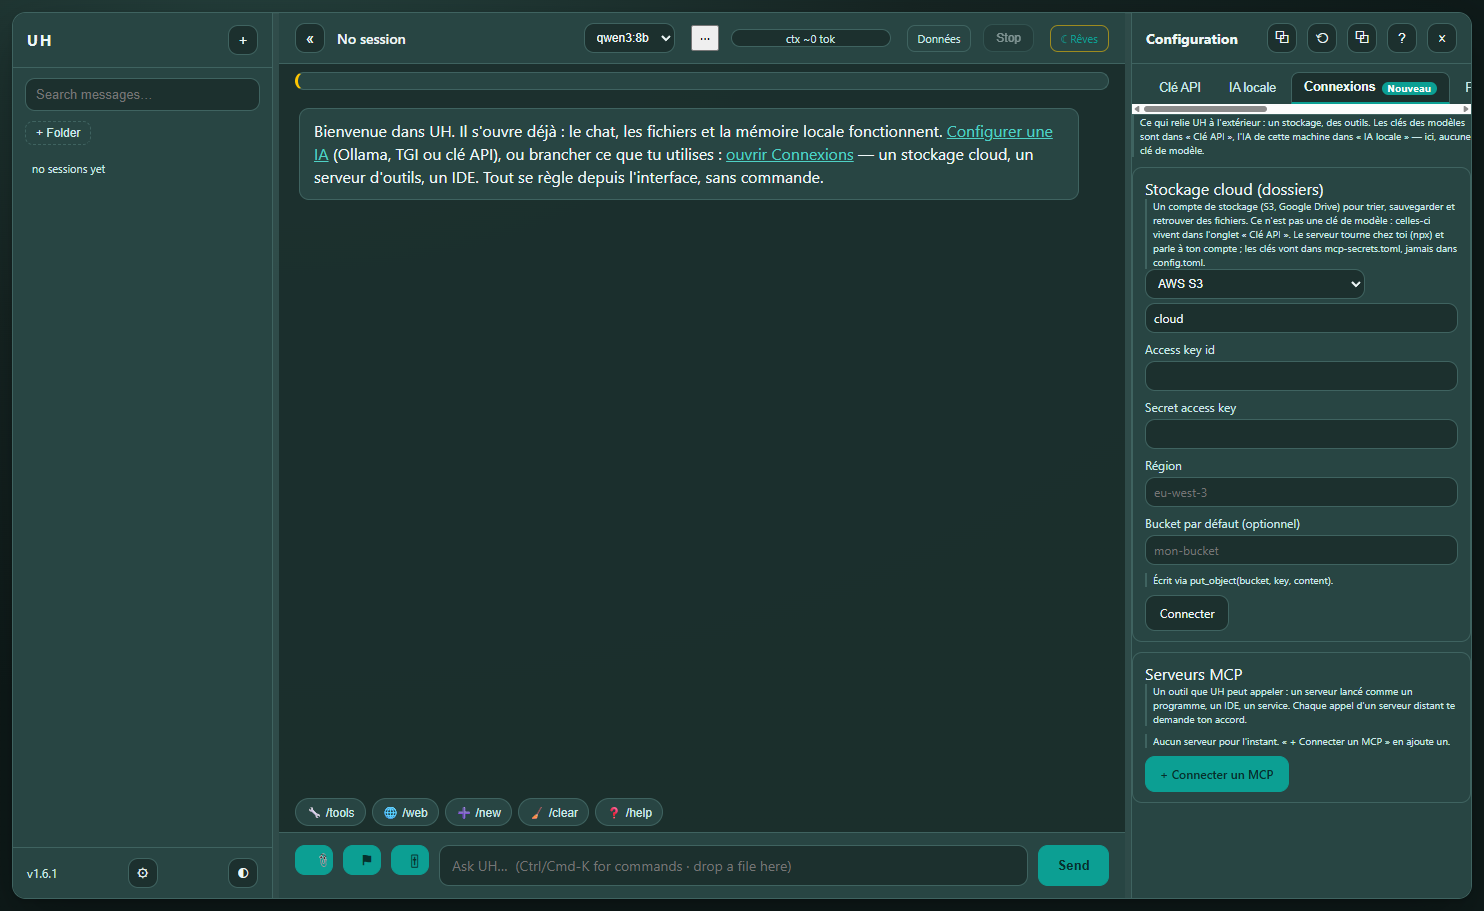
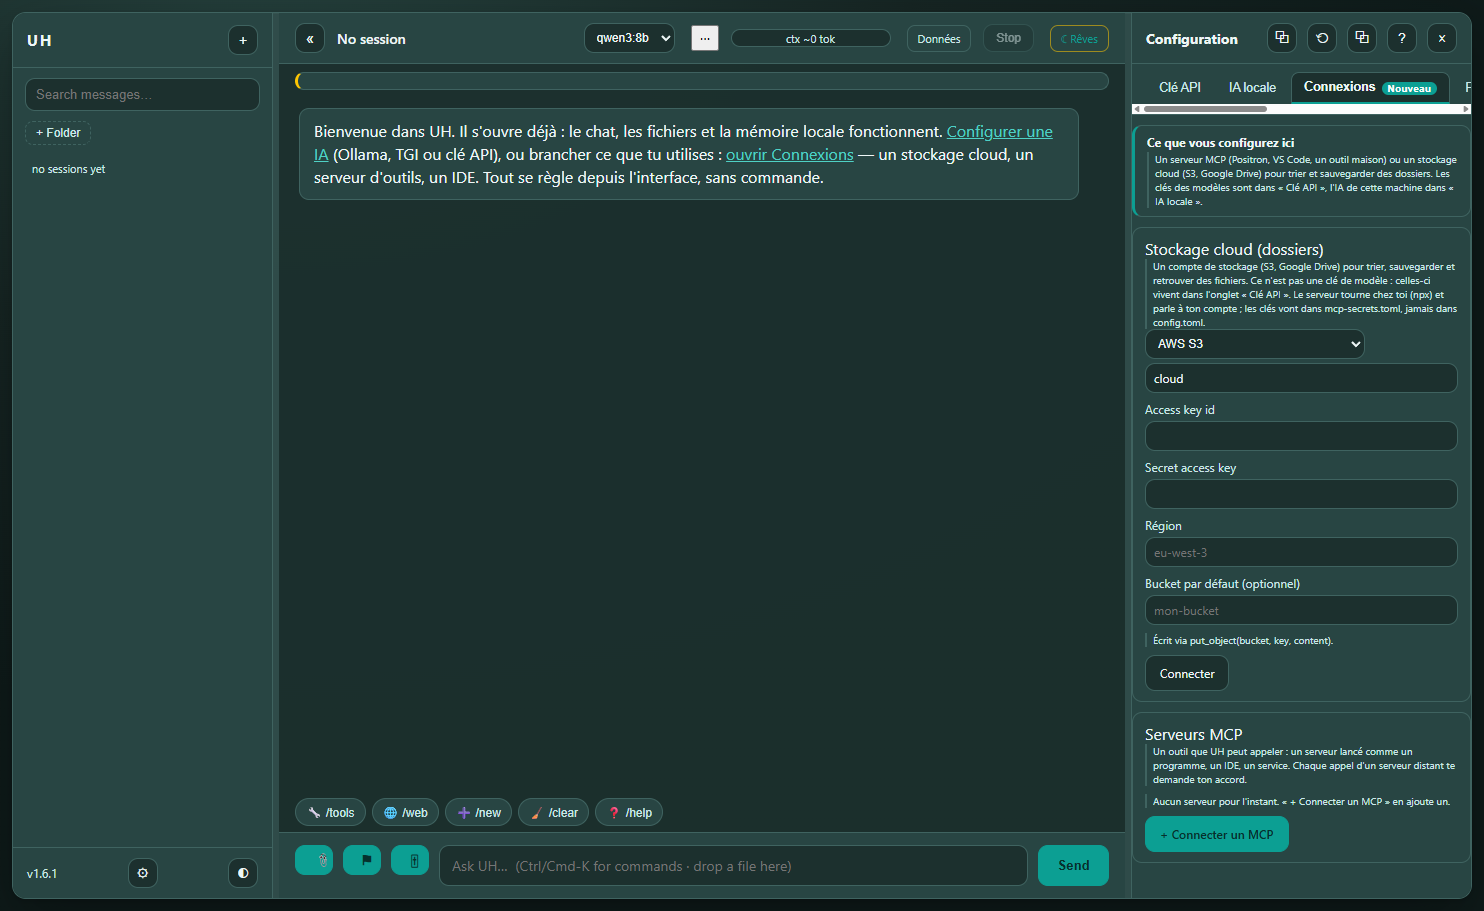
fix(prompt): guide users to UI for MCP connection, handle Positron session errors
- the prompt now forbids answering a UI question with a file edit: config.toml and
  keys.toml are for advanced users, the answer is the tab + a deep link
- and it tells the model what to do when a tool says no session is running: open a
  console in the IDE, run a cell, ask again - never invent a workaround
- a tab named in an answer becomes a link (Connexions, Clé API, IA locale, ...), and
  a same-origin deep link /?panel=conn renders as a link instead of literal markdown
- a Positron-style 'No session running' tool error is turned into that sentence in
  both clients, with the server's own words kept after it
- Connexions opens on a contextual card: MCP server or cloud storage, here; model
  keys in Clé API, the local model in IA locale

Tests: test_web_markdown_links.py (rendered HTML via node, skipped without it),
test_mcp_session_hint.py, test_system_prompt.py, test_web_ux.py.

Changed region(s): [[0.7439, 0.1229, 0.9919, 0.461], [0.7439, 0.4918, 0.9919, 0.9528]]

diff --git a/uh/web/static/markdown.js b/uh/web/static/markdown.js
@@ -12,6 +12,42 @@ function escapeHtml(text) {
   return text.replace(/[&<>"']/g, (ch) => ESCAPE[ch]);
 }
 
+// A tab named in a model answer becomes the link that opens it: the answer then
+// guides to the interface instead of describing it. Applied to text, never to a
+// code span (protected before this runs) nor inside an existing link.
+const TAB_LINKS = [
+  [/\bConnexions\b/g, "/?panel=conn"],
+  [/\bClés? API\b/g, "/?panel=keys"],
+  [/\bIA locale\b/g, "/?panel=local"],
+  [/\bDonnées\b/g, "/?panel=data"],
+  [/\bProviders\b/g, "/?panel=providers"],
+  [/\bModèles\b/g, "/?panel=models"],
+  [/\bMémoire\b/g, "/?panel=memory"],
+  [/\bDécision\b/g, "/?panel=decision"],
+  [/\bTélémétrie\b/g, "/?panel=telemetry"],
+  [/\bSecond brain\b/g, "/?panel=uhb"],
+];
+
+function linkTabs(escaped) {
+  // Existing anchors are kept whole (nesting one inside another is invalid HTML),
+  // and a bare URL is protected so "example.com/Connexions" stays a URL.
+  return escaped
+    .split(/(<a\s[^>]*>[\s\S]*?<\/a>)/)
+    .map((part, index) => {
+      if (index % 2 === 1) return part;
+      const urls = [];
+      let out = part.replace(/https?:\/\/\S+/g, (match) => {
+        urls.push(match);
+        return `\u0001${urls.length - 1}\u0001`;
+      });
+      for (const [pattern, href] of TAB_LINKS) {
+        out = out.replace(pattern, (match) => `<a href="${href}">${match}</a>`);
+      }
+      return out.replace(/\u0001(\d+)\u0001/g, (_match, i) => urls[Number(i)]);
+    })
+    .join("");
+}
+
 // Inline formatting, applied to ALREADY escaped text.
 function renderInline(escaped) {
   // Inline code first: its content is protected from further formatting.
@@ -20,14 +56,19 @@ function renderInline(escaped) {
     codes.push(code);
     return `\u0000${codes.length - 1}\u0000`;
   });
-  // Links: [label](url), http/https/mailto only — anything else stays literal.
+  // Links: [label](url) - http/https/mailto open a new tab, a same-origin path
+  // (/?panel=conn) opens in place: that is what a deep link from the model is.
   text = text.replace(/\[([^\]\n]+)\]\(([^)\s]+)\)/g, (match, label, url) => {
-    if (!/^(https?:\/\/|mailto:)/i.test(url)) return match;
-    return `<a href="${url}" target="_blank" rel="noopener noreferrer">${label}</a>`;
+    if (/^(https?:\/\/|mailto:)/i.test(url)) {
+      return `<a href="${url}" target="_blank" rel="noopener noreferrer">${label}</a>`;
+    }
+    if (/^\/(?!\/)/.test(url)) return `<a href="${url}">${label}</a>`;
+    return match;
   });
   text = text.replace(/\*\*([^*\n]+)\*\*/g, "<strong>$1</strong>");
   text = text.replace(/(^|[^*])\*([^*\n]+)\*/g, "$1<em>$2</em>");
   text = text.replace(/~~([^~\n]+)~~/g, "<del>$1</del>");
+  text = linkTabs(text);
   return text.replace(/\u0000(\d+)\u0000/g, (_match, i) => `<code>${codes[Number(i)]}</code>`);
 }
 

diff --git a/uh/web/static/app.js b/uh/web/static/app.js
@@ -4557,13 +4557,18 @@ async function loadConnections() {
   const view = $("conn-view");
   if (!view) return;
   view.textContent = "";
-  view.appendChild(
+  // A contextual card, not a wall: the tab says what it configures, and where
+  // the two things that look like keys actually live.
+  const help = el("div", "help-card");
+  help.appendChild(el("strong", null, "Ce que vous configurez ici"));
+  help.appendChild(
     el(
       "p",
       "data-note",
-      "Ce qui relie UH à l'extérieur : un stockage, des outils. Les clés des modèles sont dans « Clé API », l'IA de cette machine dans « IA locale » — ici, aucune clé de modèle."
+      "Un serveur MCP (Positron, VS Code, un outil maison) ou un stockage cloud (S3, Google Drive) pour trier et sauvegarder des dossiers. Les clés des modèles sont dans « Clé API », l'IA de cette machine dans « IA locale »."
     )
   );
+  view.appendChild(help);
   const list = el("div", "data-list");
   view.appendChild(list);
   await mountCloud(list);

diff --git a/uh/web/static/style.css b/uh/web/static/style.css
@@ -959,6 +959,15 @@ a.data-button { text-decoration: none; display: inline-block; }
 .dot-warn { background: var(--highlight); box-shadow: 0 0 6px rgba(253, 197, 2, .6); }
 .dot-off { background: var(--border); }
 
+/* A contextual help card: the tab says what it configures, once. */
+.help-card {
+  border: 1px solid var(--border); border-left: 3px solid var(--accent);
+  border-radius: var(--radius); background: var(--panel);
+  padding: 8px 12px; margin: 10px 0 0;
+}
+.help-card strong { font-size: 12px; display: block; margin-bottom: 2px; }
+.help-card .data-note { margin: 0; }
+
 /* First launch: a discreet invitation above the transcript. Nothing is blocked,
    nothing is modal, and "Plus tard" is remembered. */
 .setup-banner {

diff --git a/tests/test_web_markdown_links.py b/tests/test_web_markdown_links.py
@@ -1,0 +1,71 @@
+"""A tab named in an answer becomes the link that opens it.
+
+Run through Node when it is available (the renderer is an ES module and has no
+Python twin): the assertion is the rendered HTML, not the source. Without Node the
+file-level checks still run, so the rule cannot disappear silently.
+"""
+
+from __future__ import annotations
+
+import json
+import shutil
+import subprocess
+from pathlib import Path
+
+import pytest
+
+ROOT = Path(__file__).resolve().parents[1]
+MARKDOWN = ROOT / "uh" / "web" / "static" / "markdown.js"
+NODE = shutil.which("node")
+
+
+def render(cases: list[str]) -> list[str]:
+    script = (
+        'import { renderMarkdown } from "'
+        + MARKDOWN.as_uri()
+        + '";\n'
+        + "const cases = " + json.dumps(cases) + ";\n"
+        + "for (const text of cases) console.log(renderMarkdown(text));\n"
+    )
+    result = subprocess.run(["node", "--input-type=module", "-e", script], capture_output=True, text=True)
+    assert result.returncode == 0, result.stderr
+    return result.stdout.splitlines()
+
+
+@pytest.mark.skipif(NODE is None, reason="node is not installed")
+def test_a_plain_tab_name_becomes_a_link() -> None:
+    (html,) = render(["Ouvre l'onglet Connexions, puis + Connecter un MCP"])
+    assert '<a href="/?panel=conn">Connexions</a>' in html
+
+
+@pytest.mark.skipif(NODE is None, reason="node is not installed")
+def test_a_deep_link_from_the_model_is_rendered_as_a_link() -> None:
+    (html,) = render(["Passe par [Ouvrir Connexions](/?panel=conn)."])
+    assert '<a href="/?panel=conn">Ouvrir Connexions</a>' in html
+
+
+@pytest.mark.skipif(NODE is None, reason="node is not installed")
+def test_code_is_never_turned_into_a_link() -> None:
+    inline, fenced = render(["Le code `Connexions` reste du code", "```\nConnexions\n```"])
+    assert "<a " not in inline and "<code>Connexions</code>" in inline
+    assert "<a " not in fenced
+
+
+@pytest.mark.skipif(NODE is None, reason="node is not installed")
+def test_a_url_that_contains_a_tab_name_is_left_alone() -> None:
+    (html,) = render(["voir https://example.com/Connexions"])
+    assert "<a " not in html
+    assert "https://example.com/Connexions" in html
+
+
+@pytest.mark.skipif(NODE is None, reason="node is not installed")
+def test_an_existing_link_is_not_nested() -> None:
+    (html,) = render(["[Connexions](https://example.com/x)"])
+    assert html.count("<a ") == 1
+
+
+def test_the_source_keeps_the_rule() -> None:
+    source = MARKDOWN.read_text(encoding="utf-8")
+    assert "const TAB_LINKS" in source
+    assert '"/?panel=conn"' in source and '"/?panel=local"' in source
+    assert "linkTabs(" in source

diff --git a/tests/test_mcp_session_hint.py b/tests/test_mcp_session_hint.py
@@ -1,0 +1,59 @@
+"""A tool error that means "no session is open" becomes a sentence, not a dead end.
+
+The model reads whatever the MCP server returned. When that text says no console
+or no kernel is running, the useful answer is "open the CONSOLE, run one cell",
+not a guessed workaround.
+"""
+
+from __future__ import annotations
+
+from uh import mcp
+
+
+def test_a_positron_session_error_names_the_console() -> None:
+    hint = mcp.session_hint("Error: No session running for this code execution", "positron")
+    assert hint.startswith("Positron")
+    assert "CONSOLE" in hint
+    assert "Rien n'a été exécuté" in hint
+
+
+def test_another_ide_keeps_its_own_name() -> None:
+    hint = mcp.session_hint("no active session", "vscode")
+    assert "Le serveur 'vscode'" in hint
+
+
+def test_a_french_error_is_understood_too() -> None:
+    assert mcp.session_hint("aucune session active", "positron")
+
+
+def test_a_normal_error_gets_no_hint() -> None:
+    assert mcp.session_hint("file not found: notes.csv", "positron") == ""
+    assert mcp.session_hint("", "positron") == ""
+
+
+def test_the_client_prepends_the_hint_to_what_the_model_reads() -> None:
+    """The hint is added where the tool result is built, so every caller sees it."""
+    client = mcp.Client(mcp.ServerConfig(name="positron", command="fake"))
+    client._request = lambda *args, **kwargs: {  # type: ignore[assignment]
+        "isError": True,
+        "content": [{"type": "text", "text": "Error: No session running"}],
+    }
+
+    result = client.call("execute_code", {"code": "1+1"})
+
+    assert result["kind"] == "tool"
+    assert result["text"].startswith("Positron n'a aucune session active")
+    assert "No session running" in result["text"], "the server's own words are kept"
+    assert result["error"] == result["text"]
+
+
+def test_a_successful_call_is_untouched() -> None:
+    client = mcp.Client(mcp.ServerConfig(name="positron", command="fake"))
+    client._request = lambda *args, **kwargs: {  # type: ignore[assignment]
+        "content": [{"type": "text", "text": "42"}],
+    }
+
+    result = client.call("execute_code", {"code": "40+2"})
+
+    assert "error" not in result
+    assert result["text"] == "42"

diff --git a/uh/console.py b/uh/console.py
@@ -239,9 +239,19 @@ def system_message(workspace: Path, extra_system: str = "") -> dict:
         "files: the map below is authoritative, never guess a path. "
         "When the user asks how to do something in this interface, give the exact path "
         "(tab, then button) and a link the user can click: [Ouvrir Connexions](/?panel=conn), "
-        "or ?panel=keys, providers, models, uhb, memory, decision, telemetry, data. Never "
-        "answer a UI question with 'run this command' - a visible capability is used from "
-        "the interface. "
+        "or ?panel=keys, local, providers, models, uhb, memory, decision, telemetry, data. "
+        "Never answer a UI question with 'run this command' - a visible capability is used "
+        "from the interface. "
+        "If the user asks WHERE a button, a tab or a setting is, NEVER tell them to edit a "
+        "file: config.toml and keys.toml are for advanced users only, and editing them is "
+        "not an answer to a UI question. Name the tab and the button, and give the deep "
+        "link - MCP servers, cloud storage and IDEs are in Connexions (?panel=conn), model "
+        "keys in ?panel=keys, a local model in ?panel=local. "
+        "When an MCP tool returns an error, read it before acting. If it says that no "
+        "session, no console or no kernel is running (for example "
+        "mcp__positron__execute_code), tell the user to open the CONSOLE in the IDE, run one "
+        "cell, then ask again. Never invent a workaround command, and never edit a "
+        "configuration file to compensate. "
         "If a tool refuses for sandbox reasons, NEVER try to bypass it with `terminal`. "
         "Tell the user: 'Le sandbox refuse : <raison>. Utilise `/workspace <path>` pour "
         "changer de dossier, ou demande-moi d'écrire dans `~/Desktop` / `~/Documents` / "

diff --git a/uh/mcp.py b/uh/mcp.py
@@ -100,6 +100,26 @@ MAX_TOOL_NAME = 64
 
 _NAME_SAFE = re.compile(r"[^A-Za-z0-9_-]+")
 
+#: A tool error that means "no console/kernel is open" is the most common dead
+#: end for an IDE server: the model must be told to open one, not to invent a
+#: workaround or edit a file.
+_SESSION_ERROR = re.compile(
+    r"no (?:active )?session|session (?:is )?not (?:running|started|active|open)"
+    r"|aucune session|no console|no kernel|kernel (?:is )?not (?:running|started)",
+    re.IGNORECASE,
+)
+
+
+def session_hint(text: str, server: str) -> str:
+    """A sentence the model can act on when an IDE has no live session."""
+    if not text or not _SESSION_ERROR.search(text):
+        return ""
+    who = "Positron" if server.strip().lower().startswith("positron") else f"Le serveur '{server}'"
+    return (
+        f"{who} n'a aucune session active : ouvre une console (onglet CONSOLE), "
+        "exécute une première cellule, puis redemande. Rien n'a été exécuté."
+    )
+
 
 class MCPError(RuntimeError):
     """A server-level failure, with a ``kind`` the caller can act on.
@@ -612,8 +632,9 @@ class Client:
         if structured is not None:
             payload["structured"] = structured
         if result.get("isError"):
-            return {**payload, "error": text or "the MCP server reported an error",
-                    "kind": "tool"}
+            hint = session_hint(text, self.config.name)
+            message = f"{hint}\n\n{text}" if hint else (text or "the MCP server reported an error")
+            return {**payload, "text": message, "error": message, "kind": "tool"}
         return payload
 
     def status(self) -> Dict[str, Any]:

diff --git a/tests/test_system_prompt.py b/tests/test_system_prompt.py
@@ -57,3 +57,23 @@ def test_a_workspace_change_refreshes_the_prompt(tmp_path: Path) -> None:
     assert str(second.resolve()) in content
     assert str(first.resolve()) not in content
     assert "NEVER try to bypass it" in content
+
+
+def test_the_prompt_never_sends_a_ui_question_to_a_config_file() -> None:
+    """A weak model's default answer is "edit config.toml"; the rule forbids it."""
+    content = console.system_message(Path("/tmp/projet"))["content"]
+
+    assert "NEVER tell them to edit a" in content
+    assert "advanced users only" in content
+    assert "config.toml and keys.toml" in content
+    # And it names the tab where the thing actually lives.
+    assert "?panel=conn" in content and "?panel=keys" in content and "?panel=local" in content
+
+
+def test_the_prompt_tells_the_model_what_to_do_with_a_session_error() -> None:
+    content = console.system_message(Path("/tmp/projet"))["content"]
+
+    assert "no session, no console or no kernel is running" in content
+    assert "mcp__positron__execute_code" in content
+    assert "open the CONSOLE in the IDE" in content
+    assert "Never invent a workaround command" in content

diff --git a/uh/mcp_http.py b/uh/mcp_http.py
@@ -587,9 +587,14 @@ class HTTPClient:
         if structured is not None:
             payload["structured"] = structured
         if result.get("isError"):
+            from .mcp import session_hint
+
+            hint = session_hint(text, self.server.name)
+            message = f"{hint}\n\n{text}" if hint else (text or "the MCP server reported an error")
             return {
                 **payload,
-                "error": text or "the MCP server reported an error",
+                "text": message,
+                "error": message,
                 "kind": "tool",
             }
         return payload

diff --git a/tests/test_web_ux.py b/tests/test_web_ux.py
@@ -143,3 +143,12 @@ def test_the_development_factory_reads_the_environment(monkeypatch) -> None:
     assert settings["token"] == "dev-token"
     assert settings["allow_terminal"] is True
     assert str(settings["workspace"]) == str(ROOT)
+
+
+def test_the_connections_tab_says_what_it_configures() -> None:
+    start = APP_JS.index("async function loadConnections(")
+    body = APP_JS[start : start + 1400]
+    assert 'el("div", "help-card")' in body
+    assert "Un serveur MCP (Positron, VS Code" in body
+    assert "stockage cloud" in body
+    assert "« Clé API »" in body and "« IA locale »" in body
